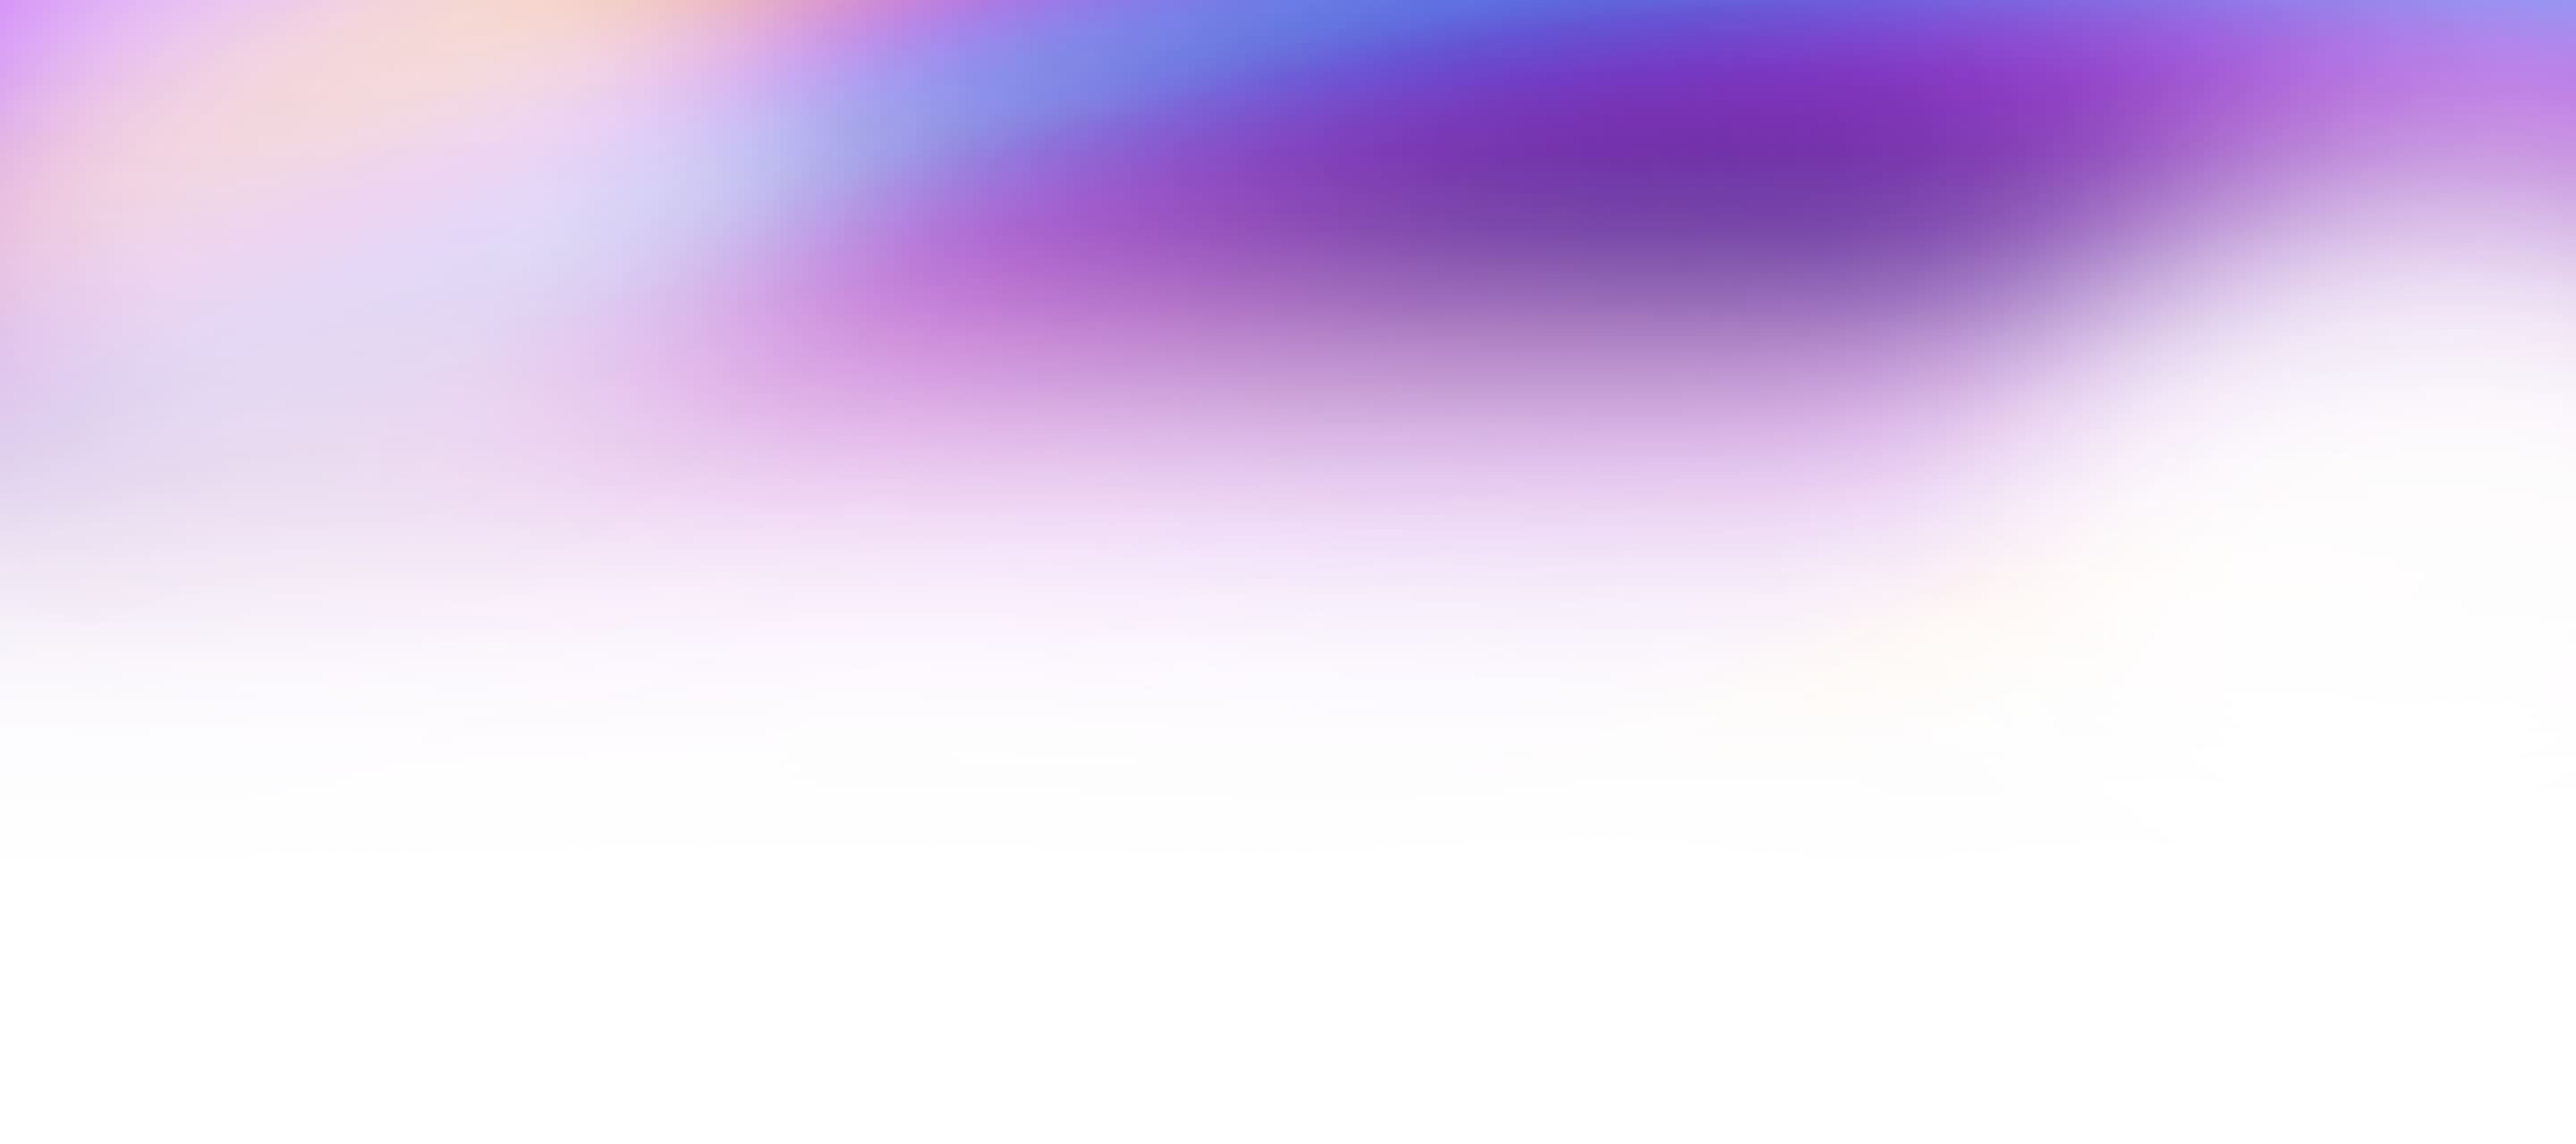
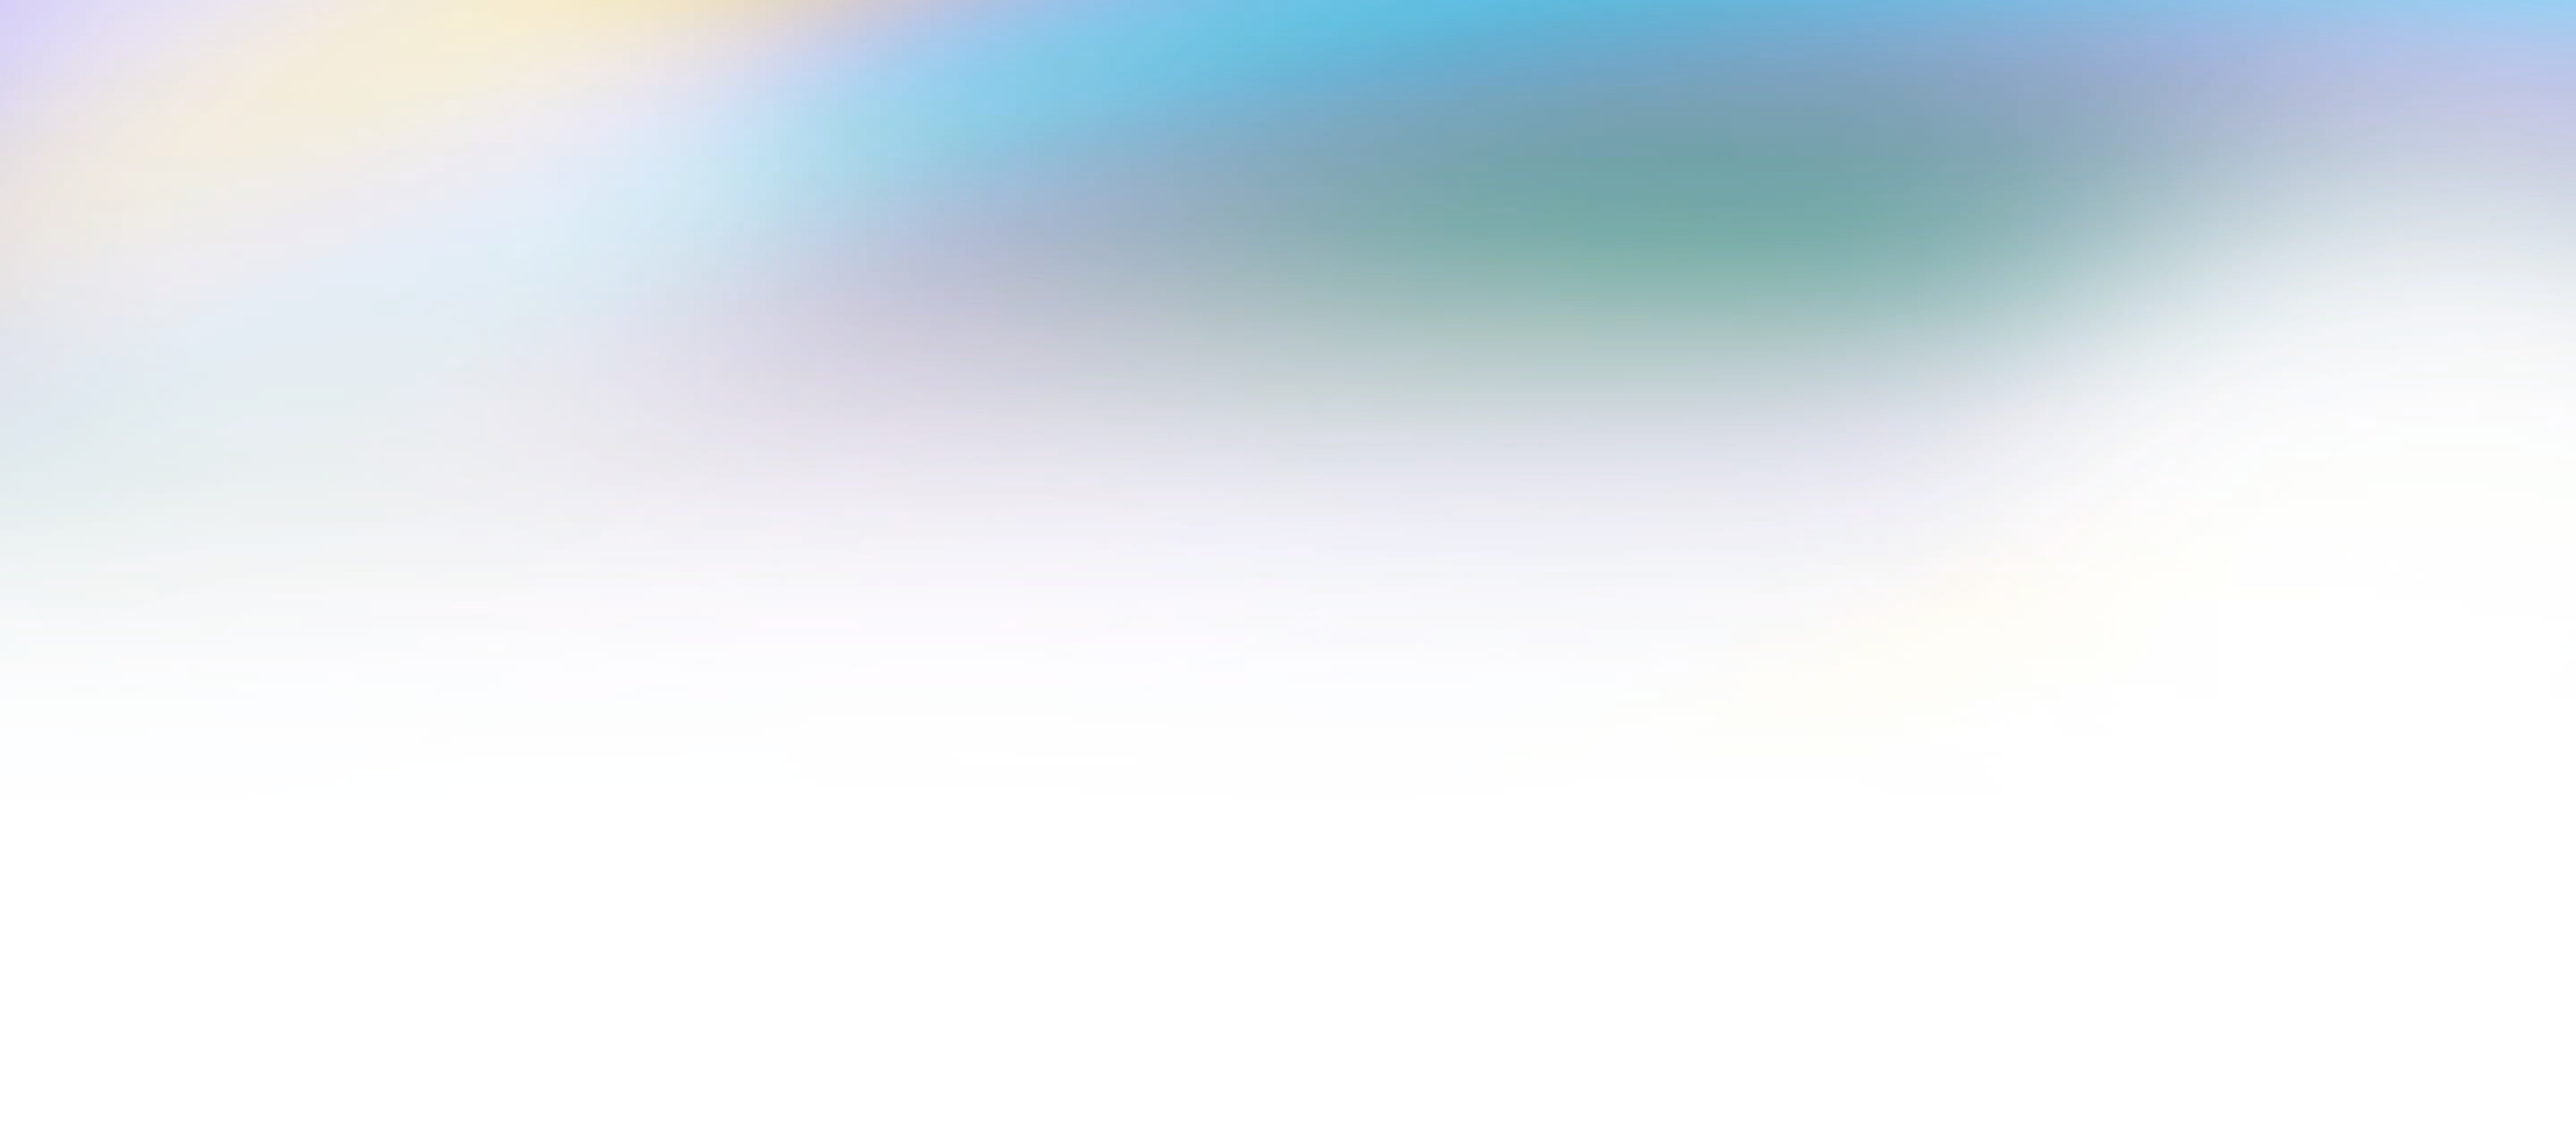
style changes

diff --git a/src/styles/global.css b/src/styles/global.css
@@ -23,19 +23,23 @@
 	--gray-999_40: hsla(var(--gray-999-basis), 0.4);
 	--gray-999: #ffffff;
 
-	--accent-light: #61f6a2;
-	--accent-regular: #41e982df;
+	--accent-light: #d0fcce;
+	--accent-regular: rgb(193, 221, 191);
 	--accent-dark: #005635;
 	--accent-overlay: hsla(141, 89%, 67%, 0.33);
 	--accent-subtle-overlay: var(--accent-overlay);
 	--accent-text-over: var(--gray-000);
 
-	--link-color: var(--accent-regular);
+	--link-color: rgb(0, 149, 190);
 
 	/* Gradients */
+	--hero-color-stop-1: #37881a;
+	--hero-color-stop-2: #247b4e;
+	
+	
 	--gradient-stop-1: var(--accent-light);
 	--gradient-stop-2: var(--accent-regular);
-	--gradient-stop-3: var(--accent-dark);
+	--gradient-stop-3: var(--accent-light);
 	--gradient-subtle: linear-gradient(150deg, var(--gray-900) 19%, var(--gray-999) 150%);
 	--gradient-accent: linear-gradient(
 		150deg,
@@ -47,7 +51,7 @@
 		150deg,
 		#95ca78,
 		var(--accent-regular),
-		var(--accent-dark)
+		var(--accent-regular)
 	);
 	--gradient-stroke: linear-gradient(180deg, var(--gray-900), var(--gray-700));
 
@@ -90,31 +94,39 @@
 	--gray-50: #f3f4f7;
 	--gray-100: #e3e6ee;
 	--gray-200: #c3cadb;
-	--gray-300: #a3c8aa;
-	--gray-400: #e0e0e0;
-	--gray-500: #64a290;
-	--gray-600: #569c7e;
+	--gray-300: #dadada;
+	--gray-400: rgb(193, 192, 192);
+	--gray-500: #4b4b7a;
+	--gray-600: #2b4d3e;
 	--gray-700: #3d634f;
 	--gray-800: #283044;
 	--gray-900: #141925;
 	--gray-999-basis: 225, 31%, 5%;
 	--gray-999: #090b11;
 
-	--accent-light: #2d7341;
-	--accent-regular: #008c48;
-	--accent-dark: #61f69a;
-	--accent-overlay: hsla(151, 89%, 67%, 0.33);
+
+	
+
+	--accent-light: #1d522c;
+	--accent-regular: #518e6d;
+	--accent-dark: #a2caac;
+	--accent-overlay: hsla(151, 27%, 38%, 0.622);
 	--accent-subtle-overlay: hsla(161, 81%, 36%, 0.33);
-	--accent-text-over: var(--gray-0);
+	--accent-text-over: #c4d5c8;
 
 	--link-color: var(--accent-dark);
 
-	--gradient-stop-1: #11c641;
+	--hero-color-stop-1: rgb(187, 255, 170);
+	--hero-color-stop-2: #d1ffea;
+
+	--gradient-stop-1: #71b576;
+	--gradient-stop-2:  #95f6a0;
+	--gradient-stop-3:  #aad685;
+	
 	--gradient-subtle: linear-gradient(150deg, var(--gray-900) 19%, var(--gray-999) 81%);
 	--gradient-accent-orange: linear-gradient(
 		150deg,
-		#788aca,
-		var(--accent-regular),
+		var(--accent-dark),
 		var(--accent-light)
 	);
 	--gradient-stroke: linear-gradient(180deg, var(--gray-600), var(--gray-800));
@@ -140,7 +152,6 @@ body {
 	background-color: var(--gray-999);
 	color: var(--gray-200);
 	font-family: var(--font-body);
-	-webkit-font-smoothing: antialiased;
 	line-height: 1.5;
 }
 
@@ -268,4 +279,5 @@ h5 {
 		gap: 12rem;
 	}
 }
+
 
